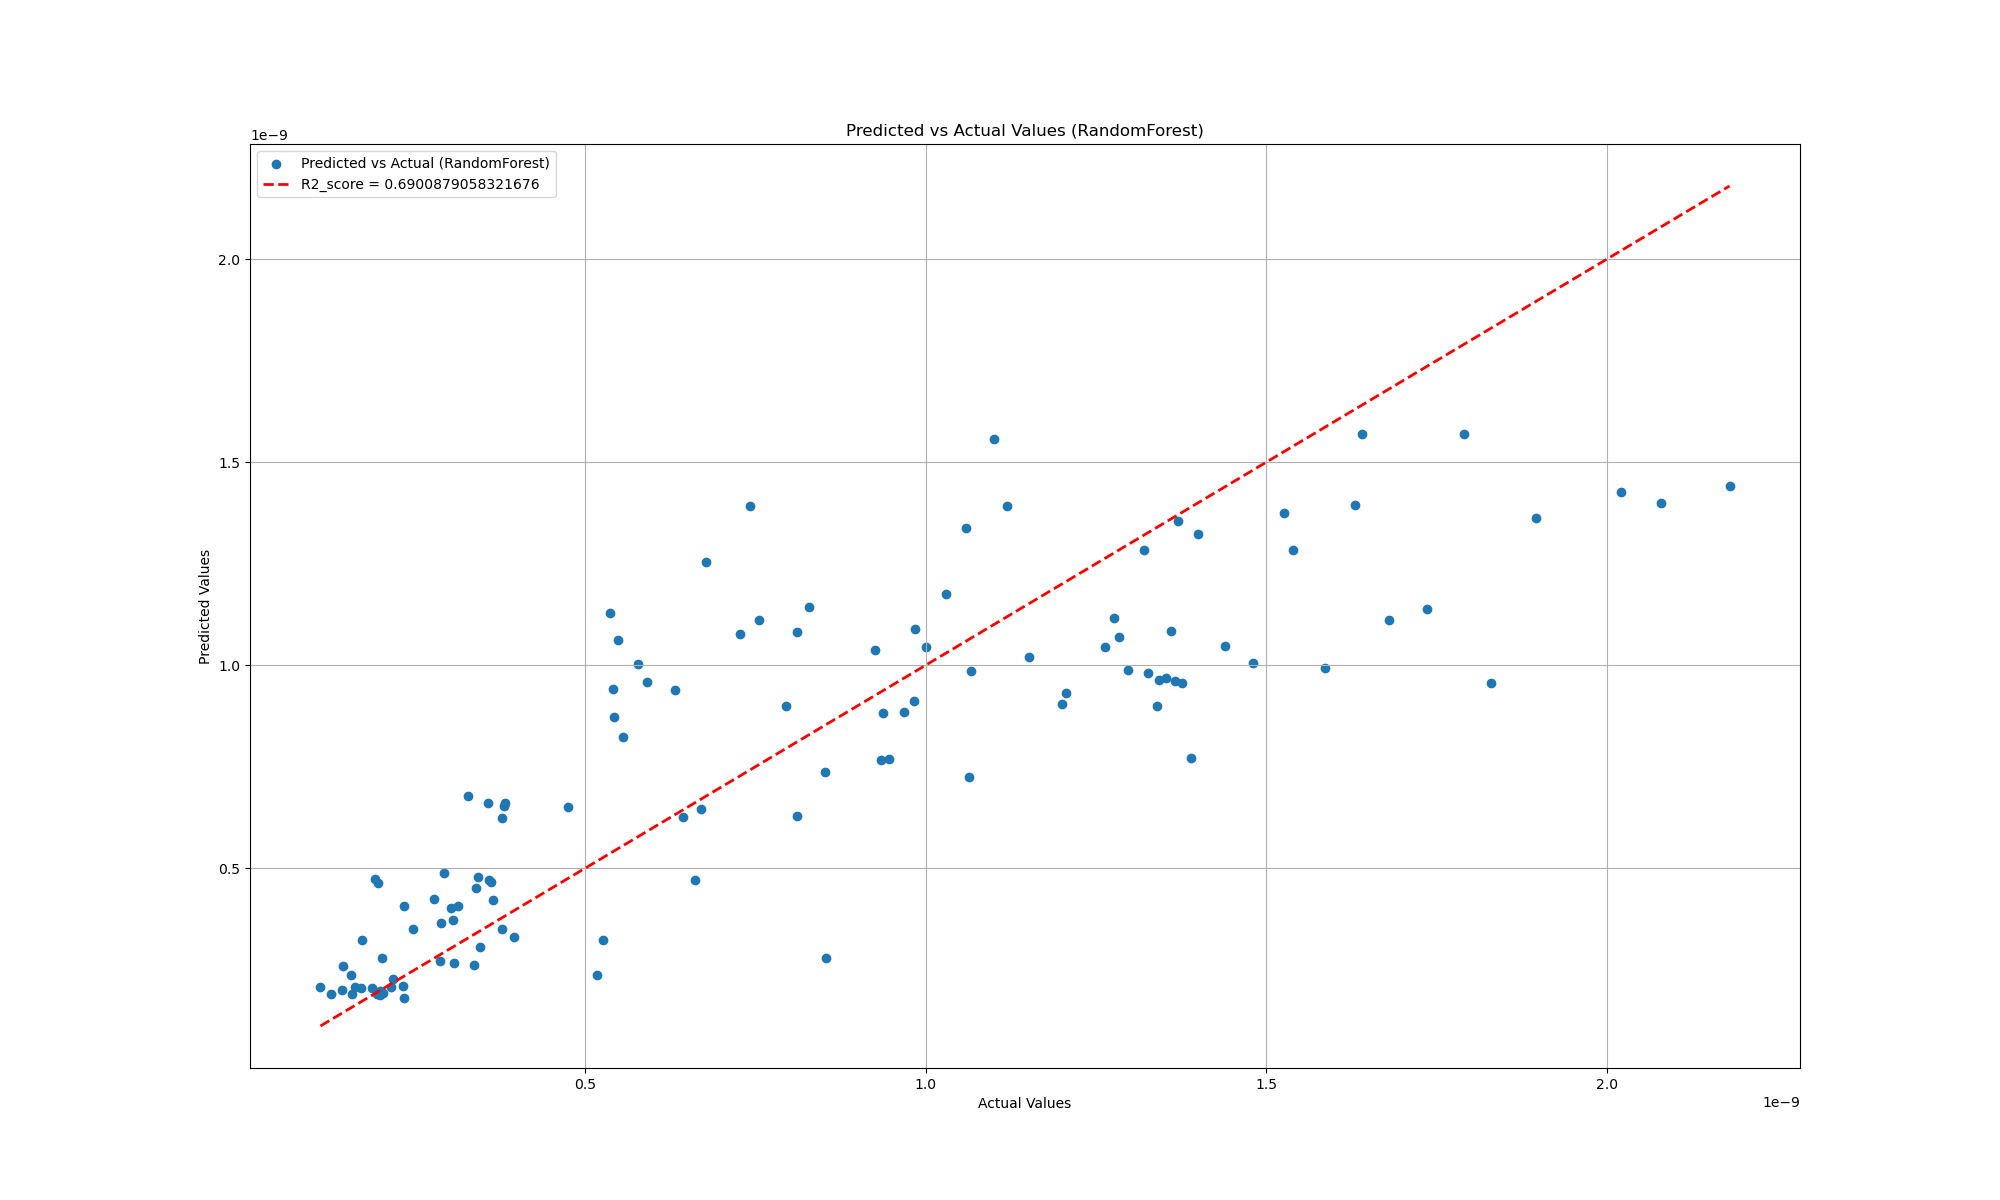
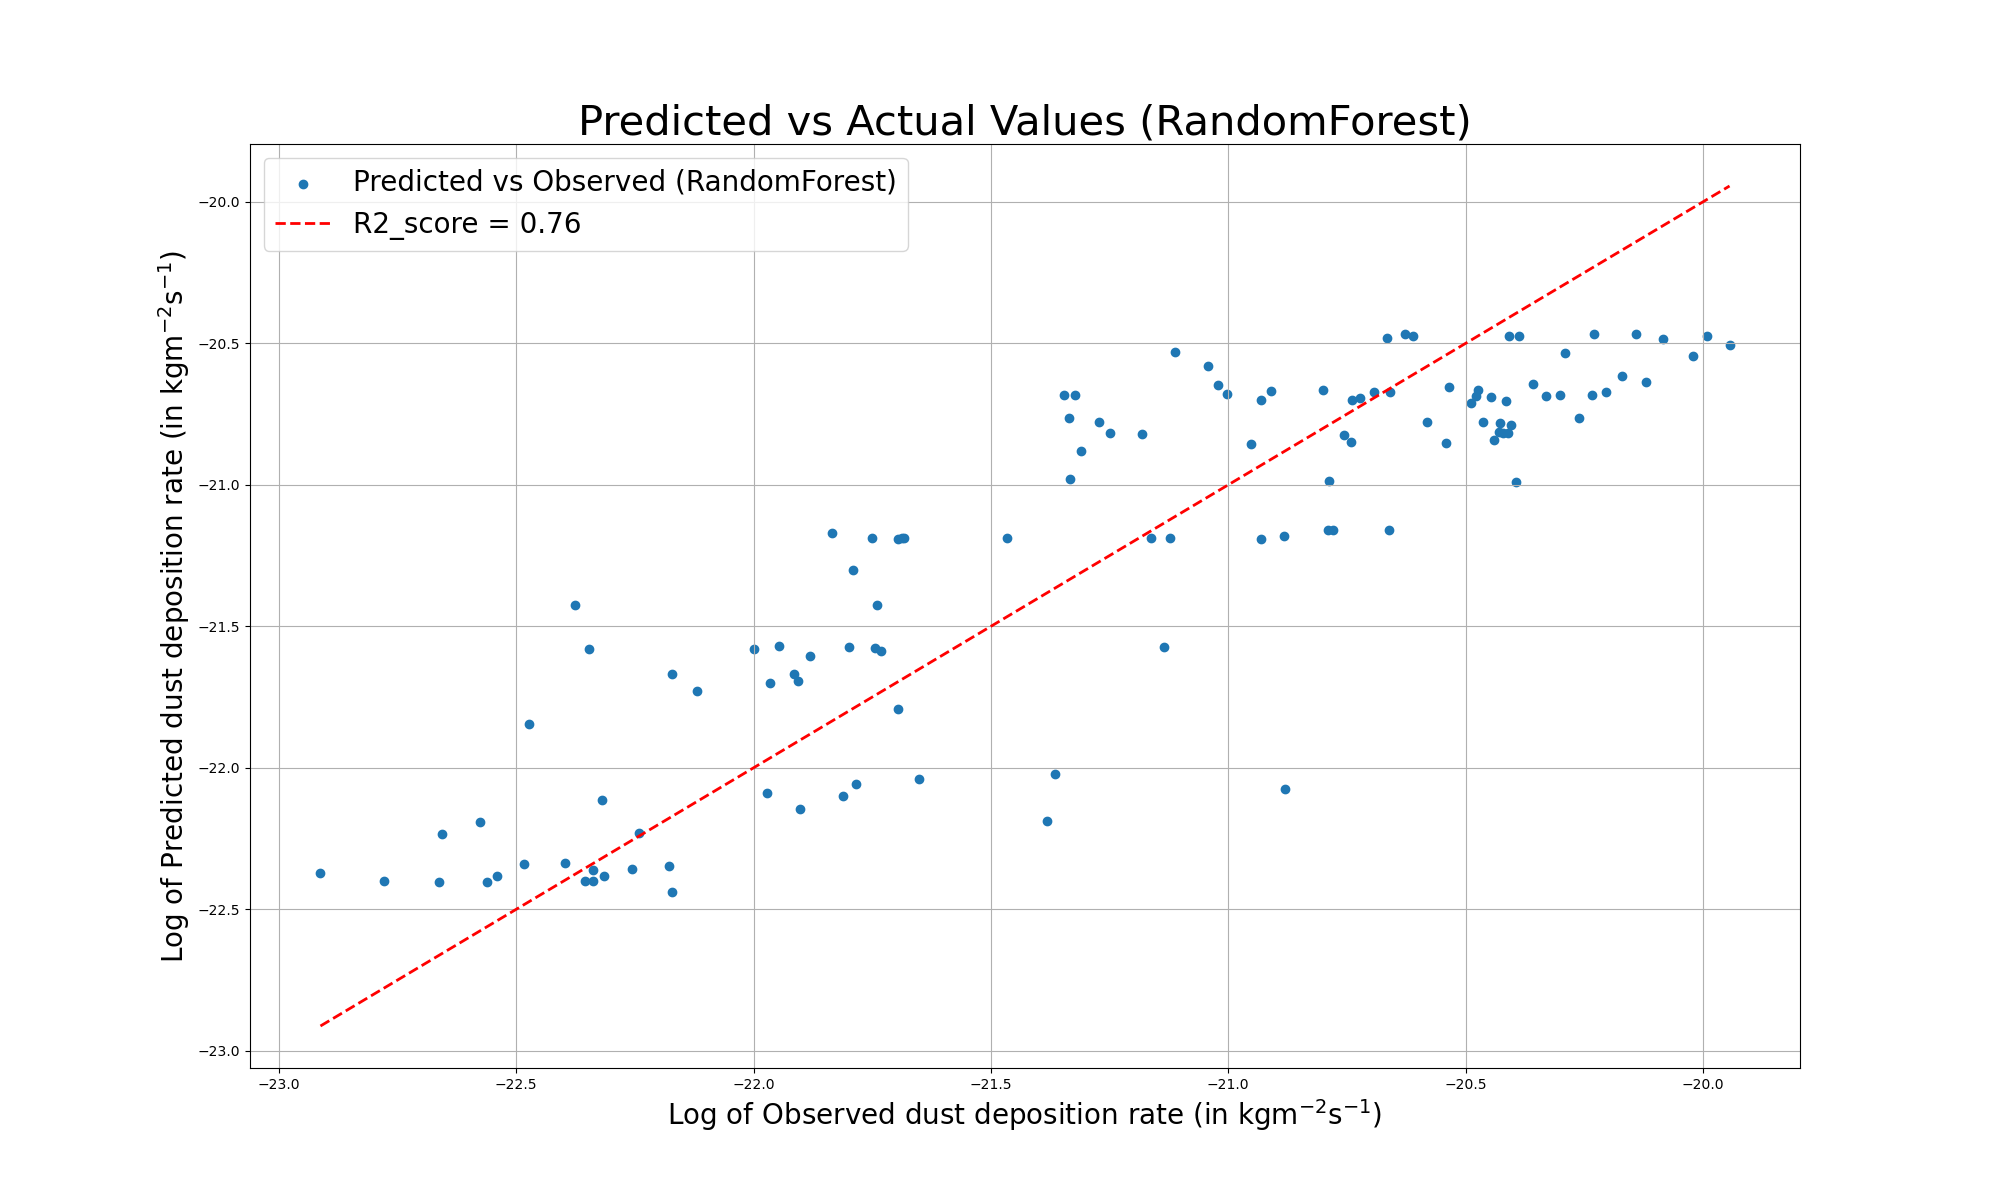
Log-normal distribution for DD_rate assumed, SVR and kNN Regressors implemented

diff --git a/notebooks/svm_model.py b/notebooks/svm_model.py
@@ -1,0 +1,69 @@
+from sklearn.svm import SVR
+from sklearn.neighbors import KNeighborsRegressor
+from sklearn.metrics import make_scorer, mean_absolute_error
+from sklearn.model_selection import GridSearchCV, KFold
+def svm_optimal_model(X_train, y_train):
+    # Define the MAE scorer for GridSearchCV
+    mae_scorer = make_scorer(mean_absolute_error, greater_is_better=False)
+
+    # Define the parameter grid for SVM
+    param_dist = {
+        'kernel': ['linear', 'rbf'],   # Linear and RBF kernels
+        'C': [0.1, 1, 10],             # Regularization parameter
+        'gamma': ['scale', 'auto'],    # Kernel coefficient for 'rbf'
+        'epsilon': [0.05, 0.1, 0.2],   # Epsilon in the epsilon-SVR model
+    }
+
+    # Set up cross-validation with 3 folds
+    kf = KFold(n_splits=3, shuffle=True, random_state=42)
+
+    # Initialize the SVM regressor
+    svm_model = SVR()
+
+    # Perform grid search to find the best hyperparameters
+    grid_search = GridSearchCV(estimator=svm_model, param_grid=param_dist, scoring=mae_scorer, cv=kf, 
+                               verbose=0, n_jobs=-1)
+    grid_search.fit(X_train, y_train)
+
+    # Get the best hyperparameters and score from the grid search
+    best_params = grid_search.best_params_
+    best_score = grid_search.best_score_
+    print(f"Best parameters found for SVM: {best_params}")
+    print(f"Best MAE score for SVM: {-best_score}")
+
+    # Train the model with the best hyperparameters
+    svm_model = SVR(**best_params)
+    return svm_model.fit(X_train, y_train)
+
+def knn_optimal_model(X_train, y_train):
+    # Define the MAE scorer for GridSearchCV
+    mae_scorer = make_scorer(mean_absolute_error, greater_is_better=False)
+
+    # Define the parameter grid for KNN
+    param_dist = {
+        'n_neighbors': [3, 5, 7, 9],  # Number of neighbors
+        'weights': ['uniform', 'distance'],  # Weight function used in prediction
+        'algorithm': ['auto', 'ball_tree', 'kd_tree', 'brute'],  # Algorithm used to compute the nearest neighbors
+        'p': [1, 2]  # Power parameter for the Minkowski metric
+    }
+
+    # Set up cross-validation with 3 folds
+    kf = KFold(n_splits=3, shuffle=True, random_state=42)
+
+    # Initialize the KNN regressor
+    knn_model = KNeighborsRegressor()
+
+    # Perform grid search to find the best hyperparameters
+    grid_search = GridSearchCV(estimator=knn_model, param_grid=param_dist, scoring=mae_scorer, cv=kf, 
+                               verbose=0, n_jobs=-1)
+    grid_search.fit(X_train, y_train)
+
+    # Get the best hyperparameters and score from the grid search
+    best_params = grid_search.best_params_
+    best_score = grid_search.best_score_
+    print(f"Best parameters found for KNN: {best_params}")
+    print(f"Best MAE score for KNN: {-best_score}")
+
+    # Train the model with the best hyperparameters
+    knn_model = KNeighborsRegressor(**best_params)
+    return knn_model.fit(X_train, y_train)

diff --git a/notebooks/model_evaluation_and_plotting.py b/notebooks/model_evaluation_and_plotting.py
@@ -35,19 +35,19 @@ def evaluate_and_plot(model, model_name, X_train, y_train, X_val, y_val, X_test,
     print(f"{model_name} Test R2:", test_r2)
     
     # Unscale the test data for visualization
-    y_test_unscaled = scaler_y.inverse_transform(y_test.reshape(-1, 1))
-    test_predict_unscaled = scaler_y.inverse_transform(test_predict.reshape(-1, 1))
+    y_test_unscaled = (scaler_y.inverse_transform(y_test.reshape(-1, 1)))
+    test_predict_unscaled = (scaler_y.inverse_transform(test_predict.reshape(-1, 1)))
     
     # Plot predicted vs actual values
     plt.figure(figsize=(20, 12))
-    plt.scatter(y_test_unscaled, test_predict_unscaled, label=f'Predicted vs Actual ({model_name})')
+    plt.scatter(y_test_unscaled, test_predict_unscaled, label=f'Predicted vs Observed ({model_name})')
     max_val = max(y_test_unscaled.max(), test_predict_unscaled.max())
     min_val = min(y_test_unscaled.min(), test_predict_unscaled.min())
-    plt.plot([min_val, max_val], [min_val, max_val], color='red', linestyle='--', linewidth=2, label=f'R2_score = {test_r2}')
-    plt.xlabel('Actual Values')
-    plt.ylabel('Predicted Values')
-    plt.title(f'Predicted vs Actual Values ({model_name})')
-    plt.legend()
+    plt.plot([min_val, max_val], [min_val, max_val], color='red', linestyle='--', linewidth=2, label=f'R2_score = {np.round(test_r2,2)}')
+    plt.xlabel('Log of Observed dust deposition rate (in kgm$^{-2}$s$^{-1}$)', fontsize = 20)
+    plt.ylabel('Log of Predicted dust deposition rate (in kgm$^{-2}$s$^{-1}$)', fontsize = 20)
+    plt.title(f'Predicted vs Actual Values ({model_name})', fontsize = 30)
+    plt.legend(fontsize = 20)
     plt.grid()
     output_path = os.path.join(parent_directory, 'outputs', model_name + '_prediction_vs_observation_DD_rate.png')
     plt.savefig(output_path)
@@ -88,7 +88,7 @@ def save_performance_and_plot(df_performance):
     bar_positions = np.arange(len(df_performance))
 
     # Plot comparison of R2 and MAE across models using subplots
-    fig, axs = plt.subplots(2, 1, figsize=(12, 16))
+    fig, axs = plt.subplots(1, 2, figsize=(20, 12))
 
     for i, metric in enumerate(metrics):
         # Define the column names for the metric

diff --git a/notebooks/ensembled_tree_models.py b/notebooks/ensembled_tree_models.py
@@ -15,17 +15,18 @@ def lgb_optimal_model(X_train, y_train):
 
     # Define the parameter grid for LightGBM
     param_dist = {
-        'num_leaves': [5, 10],
-        'max_depth': [5, 15],
+        'num_leaves': [31, 50],
+        'max_depth': [8, 15],
         'max_bin': [10,20],
         'extra_trees': [True],
         'learning_rate': [0.01, 0.1],
-        'n_estimators': [100, 150, 200],
+        'n_estimators': [150, 200],
         'boosting_type': ['goss'],
         'lambda_l1': [0, 0.2],
         'linear_tree': [True],
         'lambda_l2': [0, 0.2],
-        'min_split_gain': [0, 0.1]
+        'min_split_gain': [0, 0.1],
+        'verbose':[-1]
     }
 
     # Set up cross-validation with 3 folds
@@ -58,12 +59,12 @@ def xgb_optimal_model(X_train, y_train):
     param_dist = {
         'max_depth': [3, 5],
         'learning_rate': [0.01, 0.1, 0.2],
-        'n_estimators': [10, 25, 30],
-        'gamma': [0, 0.1, 0.2],
+        'n_estimators': [200, 350, 400],
+        'gamma': [1.5, 3],
         'max_bin': [10, 20],
-        'reg_alpha': [1, 2],  # L1 regularization term on weights
-        'reg_lambda': [1, 2],  # L2 regularization term on weights
-        'min_child_weight': [1, 5, 10],
+        'reg_alpha': [0.5, 1, 2],  # L1 regularization term on weights
+        'reg_lambda': [0.5, 1, 2],  # L2 regularization term on weights
+        'min_child_weight': [3, 5, 10],
         'subsample': [0.6, 0.8],
         'colsample_bytree': [0.8, 1]
     }
@@ -96,11 +97,12 @@ def rf_optimal_model(X_train, y_train):
 
     # Define the parameter grid for Random Forest
     param_dist = {
-        'n_estimators': [200, 250, 300],
-        'max_depth': [5, 10],
+        'n_estimators': [350, 450, 500],
+        'max_depth': [10, 15],
         'min_samples_split': [2, 4],
         'min_samples_leaf': [2, 4],
-        'bootstrap': [True, False] 
+        'bootstrap': [True, False],
+        'ccp_alpha': [0.01, 0.05, 0.1] 
     }
 
     # Set up cross-validation with 3 folds

diff --git a/notebooks/ML_for_dust_deposition_rate_prediction.py b/notebooks/ML_for_dust_deposition_rate_prediction.py
@@ -5,6 +5,7 @@ import os
 from sklearn.metrics import r2_score, mean_absolute_error
 from ML_data_creation import *
 from ensembled_tree_models import *
+from svm_model import *
 from model_evaluation_and_plotting import *
 # Define the sites for fetching data
 sites = [
@@ -32,6 +33,11 @@ performance_metrics.append(evaluate_and_plot(lgb_optimal_model, "LightGBM", X_tr
 performance_metrics.append(evaluate_and_plot(xgb_optimal_model, "XGBoost", X_train_scaled, y_train_scaled, X_val_scaled, y_val_scaled, X_test_scaled, y_test_scaled, scaler_y))
 # Evaluate and plot for RF
 performance_metrics.append(evaluate_and_plot(rf_optimal_model, "RandomForest", X_train_scaled, y_train_scaled, X_val_scaled, y_val_scaled, X_test_scaled, y_test_scaled, scaler_y))
+# Evaluate and plot for SVM
+performance_metrics.append(evaluate_and_plot(svm_optimal_model, "SVR", X_train_scaled, y_train_scaled, X_val_scaled, y_val_scaled, X_test_scaled, y_test_scaled, scaler_y))
+# Evaluate and plot for KNNRegressor
+performance_metrics.append(evaluate_and_plot(knn_optimal_model, "kNN", X_train_scaled, y_train_scaled, X_val_scaled, y_val_scaled, X_test_scaled, y_test_scaled, scaler_y))
+
 
 df_performance = pd.DataFrame(performance_metrics)
 save_performance_and_plot(df_performance=df_performance)

diff --git a/notebooks/ML_data_creation.py b/notebooks/ML_data_creation.py
@@ -52,7 +52,8 @@ def data_preprocess(df):
 def data_rescaling_and_train_test_creation(df):
     # Split the DataFrame into features (X) and target (y)
     df_X = df.drop(columns=['DD'])
-    df_y = df[['DD']]
+    # df_y = df[['DD']]
+    df_y = np.log(df[['DD']])
 
     # Split data into train+validation and test sets
     X_tr_val, X_test, y_tr_val, y_test = train_test_split(df_X, df_y, random_state=100, shuffle=True, test_size=0.2)
